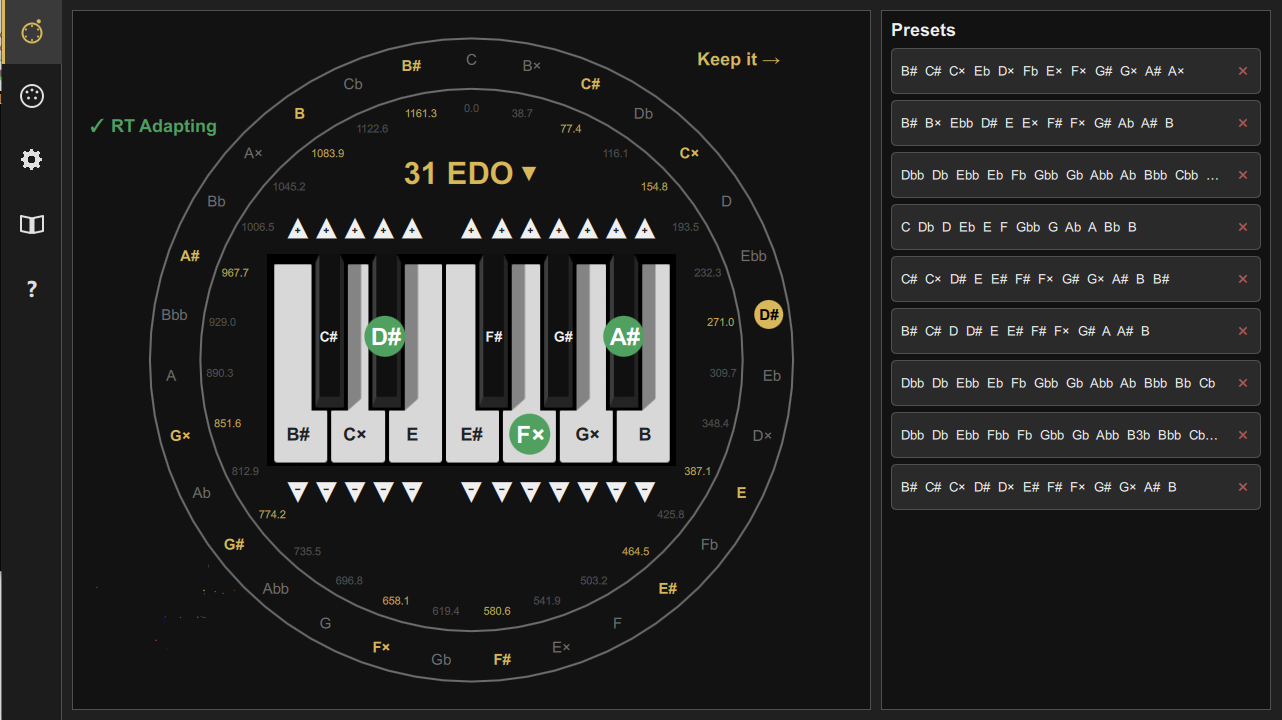
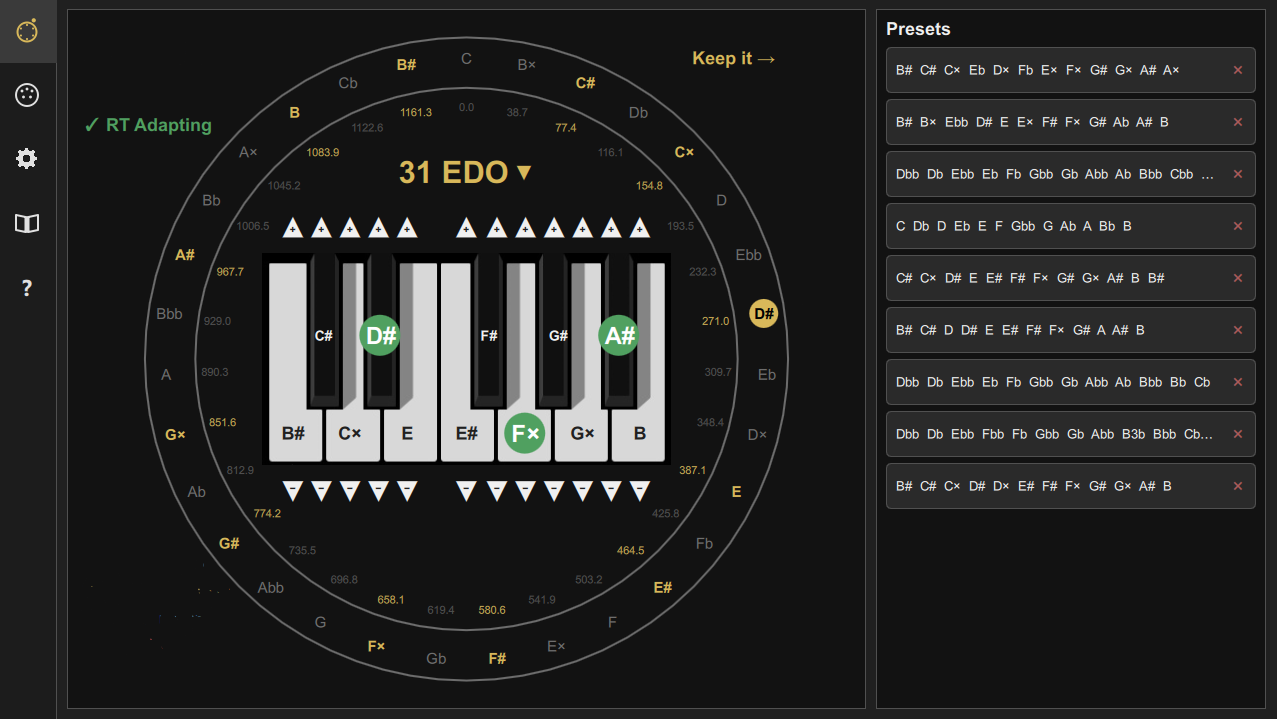
User manual updated with Settings page

diff --git a/src/resources/manual/IntonaUserManual.html b/src/resources/manual/IntonaUserManual.html
@@ -165,8 +165,6 @@
   <main class="page">
     <h1>Intona User Manual</h1>
 
-    <p><strong>Draft version.</strong> This document is a first working draft and will be revised as the behaviour of Intona is documented in more detail.</p>
-
 	<section id="introduction">
 	  <h1>Introduction</h1>
 
@@ -197,6 +195,7 @@
 		<li><a href="#midi-settings">MIDI Setup</a></li>
 		<li><a href="#tuning-fundamentals">Tuning Fundamentals</a></li>
 		<li><a href="#tuning-surface">Tuning Surface</a></li>
+		<li><a href="#settings">Settings</a></li>
 	  </ol>
 	</nav>
 
@@ -634,9 +633,7 @@
 
       <h3>Tuning centre</h3>
 
-      <p>The lower-left area shows the current tuning centre, for example:</p>
-
-      <p><strong>Tuning Center = C</strong></p>
+      <p>The current tuning centre is shown on the circle as a black note name inside a gold disc.</p>
 
       <p>The tuning centre is the reference point used by the current tuning interpretation.</p>
 
@@ -647,46 +644,65 @@
       <p>The <strong>RT Adapting</strong> indicator shows whether real-time adaptive tuning is active.</p>
       <p>Real-time adapting uses scales and major/minor triads, and evaluates incoming notes immediately. It uses the new note, all distinct held note classes, and, if needed, the most recently released distinct notes to form a context of at least three classes. Repetitions and octave doublings do not add independent evidence. The keyboard keeps its fifth-cycle anchor: moving the centre by one fifth preserves the eleven common assignments.</p>
       <p>The five scale families are major, harmonic major, natural minor, melodic minor and harmonic minor. The established centre can explain the context through its own five scales and those of its dominant and subdominant. An alternative centre uses only its own five scales. During a provisional transition, the candidate uses five scales and the previous established centre retains fifteen for recovery. Candidates are visited by alternating ascending and descending fifths, taking the first compatible interpretation while preserving established pivots.</p>
-      <h3>Held notes and instrument test</h3>
-      <p>In Settings, <strong>Retrigger held notes</strong> controls how adaptive tuning and MIDI-control step actions update notes that are already sounding. It is enabled initially and saved automatically. When enabled, Intona sends Note Off, tuning and Note On for affected notes. When disabled, it sends only tuning: the instrument may update held notes itself, or apply the new pitch at the next attack. The interpretation rules and pivot protection stay the same.</p>
-      <p><strong>Test held-note tuning</strong> plays a two-second note on the selected MIDI output channels and changes its tuning noticeably halfway through, without restarting it. Release all keys and the sustain pedal first, and use a sustained sound such as an organ. The original tuning is restored at the end. Answer the question according to what you hear; the suggestion does not change your preference automatically. If you hear no note, check the output connection and channels.</p>
-      <p>You can stop the test at any time. Playing or changing the tuning or MIDI output interrupts it and restores the previous tuning where the connection is available. Test notes are not recorded as performance input.</p>
       <p>When the context contains the keyboard shape of a major or minor triad, its spelling must make it an actual major or minor triad: F–Ab–C instead of F–G#–C, and D–F#–A instead of D–Gb–A. All detected triads must agree with the scale interpretation. If those requirements conflict, the correction yields to the scale logic. No harmonic-distance cost, time-weighted history or history parameters are used. The triad check is part of scale interpretation; no general chord recognizer is used.</p>
       <p>Readings compatible with the established centre are acquired. Fresh acquired held readings remain revisable within 70 ms as a triad completes; older acquired held notes act as fixed pivots. Alternative readings remain provisional and can be revised by subsequent distinct notes. Musical confirmation requires the reading to be supported again with two distinct later classes, after the 70 ms grace period.</p>
       <p>A separate 70 ms timer checks the evidence behind each centre change. A short note or a held confirmation released before the deadline may invalidate it; if existing replacement evidence is insufficient, Intona restores the previous tuning. Later changes depending on that decision are cancelled. This timer never delays the incoming sound, and it does not by itself acquire a provisional musical reading. Note releases update the evidence but do not search for a new centre.</p>
-      <p>If a still-held note needs correction, Intona sends Note Off, the tuning update, then Note On at the original velocity on the selected output channels. Released notes are never restarted. Retrospective interpretation cannot change a note that has already finished sounding. Choosing a centre manually, loading a preset, changing EDO or toggling RT Adapting resets the adaptive context and cancels outstanding verification. Held notes seed the explicit new context as pivots.</p>
-      <p>The performance recorder remains available in Settings. It records original incoming MIDI events before adaptive processing, and identifies the adaptive algorithm in the contextual metadata. Record a problematic passage, stop after releasing the keys, and use the saved file for reproducible timing and interpretation analysis.</p>
+      <p>If a still-held note needs correction, the <a href="#settings">Retrigger held notes setting</a> determines whether Intona restarts it around the tuning update. Released notes are never restarted. Retrospective interpretation cannot change a note that has already finished sounding. Choosing a centre manually, loading a preset, changing EDO or toggling RT Adapting resets the adaptive context and cancels outstanding verification. Held notes seed the explicit new context as pivots.</p>
+
 
       <p>When real-time adapting is enabled, <strong>Intona</strong> can change the tuning interpretation according to the musical context.</p>
 
       <p>When it is disabled, the current tuning layout remains fixed until the user changes it manually.</p>
 
       <h3>Keyboard and pedal control</h3>
-      <p>In Settings, select the MIDI control and its action: tuning step up/down, or next/previous preset. Available controls include channel aftertouch, polyphonic aftertouch, pitch bend up/down and CC 0–119, including modulation, expression, foot controller and sustain/sostenuto/soft pedals. Choose the CC transmitted by your keyboard or pedal; Intona cannot determine the physical pedal from the MIDI message alone. The assignment, activation and threshold are saved automatically.</p>
-      <p>Each gesture performs one action when its value reaches the activation threshold. Return to half that threshold or lower to rearm it. Pitch bend uses distance from the centre in the selected direction. Continuous pressure or pedal movement above the threshold does not repeat the action.</p>
-      <p>Polyphonic aftertouch steps only the addressed held key. Other controls step every held key once, even with octave doublings. Intona uses one tuning per pitch class, so all octaves share the change. Preset actions affect the whole tuning and cycle through the current EDO's saved presets; with no preset selected, next starts at the first and previous at the last.</p>
-      <p>On the tuning surface, click the check mark to enable or disable the assignment. Click its text to reverse the direction: step up/down or next/previous preset. Reversing direction does not enable a disabled assignment.</p>
-      <p>When enabled, the assigned control is reserved for Intona and is not forwarded to the instrument. When disabled, that control passes through normally. The fine-resolution companion of an assigned coarse CC is reserved too. MIDI channel-mode messages are not assignable. This is MIDI 1.0 polyphonic key pressure on the selected input channel, not MPE.</p>
+      <p>Click the check mark or cross to enable or disable the assigned control. Click the adjacent text to reverse its direction: step up/down or next/previous preset. Reversing the direction does not enable a disabled control; when disabled, its action is shown as <strong>off</strong>. Choose the control and action in <a href="#settings">Settings</a>.</p>
 
       <h3>Keep it</h3>
+      <p>Click <strong>Keep it</strong> to save the current tuning configuration as a preset for the selected EDO. You can recall it later from the Presets panel.</p>
 
-      <p>The <strong>Keep it</strong> control is used to keep the current tuning choice.</p>
-
-      <p>This is useful when <strong>Intona</strong> proposes or reaches a tuning interpretation that the user wants to preserve while continuing to play.</p>
-
-      <h3>Adaptive choices panel</h3>
-
-      <p>The panel on the right lists available note collections or harmonic interpretations related to the current tuning context.</p>
-
-      <p>Each row represents a possible tuning choice.</p>
-
-      <p>The highlighted notes indicate the pitch classes involved in that choice.</p>
-
-      <p>The small remove button on the right of each row can be used to discard a listed choice when it is no longer needed.</p>
-
-      <p>This panel is especially useful when working with adaptive tuning, because it shows the available alternatives in a compact form.</p>
+      <h3>Presets</h3>
+      <p>The <strong>Presets</strong> panel on the right contains your saved tuning configurations for the current EDO. Click a row to recall that configuration; use its remove button to delete it.</p>
+      <p>Presets provide an alternative to automatic adaptation. They let you prepare and recall tunings that the adaptive logic, based on scales and major/minor triads, would not select. Disable <strong>RT Adapting</strong> when you want to use these configurations without automatic changes. You can also assign a keyboard or pedal control to move to the next or previous preset in <a href="#settings">Settings</a>.</p>
+      <p>The current selection of twelve pitches is shown by the gold highlights on the tuning circle and by the note names on the keyboard. The Presets panel stores configurations chosen by you; it does not list suggested interpretations of the music you are playing.</p>
 
 	</section>
+
+    <section id="settings">
+      <h1>5. Settings</h1>
+
+	  <figure>
+		  <img class="manual-screenshot"
+			   src="images/Settings.png"
+			   alt="Settings page"
+			   style="width:80%;">
+		  <figcaption>
+			  Settings page.
+		  </figcaption>
+	  </figure>
+
+      <p>Use this page to assign a keyboard or pedal control, choose how held notes respond to tuning changes, and select the note naming convention. These preferences are saved automatically for the next session.</p>
+
+      <h3>Keyboard and pedal control</h3>
+      <p>Select the MIDI control and its action: tuning step up/down, or next/previous preset. Available controls include channel aftertouch, polyphonic aftertouch, pitch bend up/down and CC 0–119, including modulation, expression, foot controller and sustain/sostenuto/soft pedals. Choose the CC transmitted by your keyboard or pedal; Intona cannot determine the physical pedal from the MIDI message alone. The assignment, activation and threshold are saved automatically.</p>
+      <p>Each gesture performs one action when its value reaches the activation threshold. Return to half that threshold or lower to rearm it. Pitch bend uses distance from the centre in the selected direction. Continuous pressure or pedal movement above the threshold does not repeat the action.</p>
+      <p>Polyphonic aftertouch steps only the addressed held key. Other controls step every held key once, even with octave doublings. Intona uses one tuning per pitch class, so all octaves share the change. Preset actions affect the whole tuning and cycle through the current EDO's saved presets; with no preset selected, next starts at the first and previous at the last.</p>
+      <p>When enabled, the assigned control is reserved for Intona and is not forwarded to the instrument. When disabled, that control passes through normally. The fine-resolution companion of an assigned coarse CC is reserved too. MIDI channel-mode messages are not assignable. This is MIDI 1.0 polyphonic key pressure on the selected input channel, not MPE.</p>
+
+      <h3>Held notes and instrument test</h3>
+      <p><strong>Retrigger held notes</strong> controls how adaptive tuning and MIDI-control step actions update notes that are already sounding. It is enabled initially and saved automatically. When enabled, Intona sends Note Off, tuning and Note On for affected notes. When disabled, it sends only tuning: the instrument may update held notes itself, or apply the new pitch at the next attack. The interpretation rules and pivot protection stay the same.</p>
+      <p><strong>Test held-note tuning</strong> plays a two-second note on the selected MIDI output channels and changes its tuning by about 80 cents (almost a semitone), upwards or downwards, halfway through, without restarting it. This is a clear change of note, not a subtle nuance. Release all keys and the sustain pedal first, and use a sustained sound such as an organ. The original tuning is restored at the end. Choose “Yes, I heard the note change” or “No, I heard only one note”; the suggestion does not change your preference automatically. If you hear no sound, check the output connection and channels, then repeat the test.</p>
+      <p>You can stop the test at any time. Playing or changing the tuning or MIDI output interrupts it and restores the previous tuning where the connection is available. Test notes are not recorded as performance input.</p>
+
+      <p>If you heard the note change, the instrument can update sounding notes and you can disable <strong>Retrigger held notes</strong>. If you heard only one unchanged note, enable it so that Intona restarts notes that need retuning.</p>
+
+      <h3>Note names</h3>
+      <p>This setting changes the names shown in Intona; it does not change the tuning or keyboard mapping.</p>
+      <ul>
+        <li><strong>Cycle of fifths</strong>: names follow the cycle of fifths using sharps and flats. Some EDOs and tuning centres require three or more accidentals.</li>
+        <li><strong>Simplified names and +/-</strong>: tuning-centre names use at most two sharps or flats where possible, with + or - signs indicating steps above or below the nearest such name. Each sign represents one step of the selected EDO. Exact names with at most two accidentals remain unchanged. The twelve selected notes retain the correct interval spelling relative to the centre, even when this requires more than two accidentals.</li>
+      </ul>
+
+    </section>
 
   </main>
 </body>

diff --git a/src/qml/pages/SettingsPage.qml b/src/qml/pages/SettingsPage.qml
@@ -151,17 +151,20 @@ Rectangle {
                         spacing: 8
                         visible: TuningController.retuningTestAwaitingAnswer
                         Button {
-                            text: qsTr("Yes, the pitch changed")
+                            text: qsTr("Yes, I heard the note change")
                             onClicked: testAnswer.text = qsTr("You can disable retriggering.")
                         }
                         Button {
-                            text: qsTr("No, it stayed the same")
+                            text: qsTr("No, I heard only one note")
                             onClicked: testAnswer.text = qsTr("Enable retriggering to update held notes.")
                         }
-                        Button {
-                            text: qsTr("I could not tell")
-                            onClicked: testAnswer.text = qsTr("Try a sustained sound and check the MIDI output.")
-                        }
+                    }
+                    Label {
+                        Layout.fillWidth: true
+                        wrapMode: Text.WordWrap
+                        color: SharedUi.Theme.secondaryText
+                        visible: TuningController.retuningTestAwaitingAnswer
+                        text: qsTr("No sound? Check the MIDI output, then repeat the test.")
                     }
                     Label {
                         id: testAnswer
@@ -174,6 +177,8 @@ Rectangle {
             }
 
             SharedUi.FormSection {
+                objectName: "recordingPanel"
+                visible: RecordingUiEnabled
                 title: qsTr("Record a performance")
                 Layout.fillWidth: true
 

diff --git a/tests/SettingsPageTests.cpp b/tests/SettingsPageTests.cpp
@@ -41,6 +41,7 @@ int main(int argc, char** argv)
   QQuickStyle::setStyle("Material");
   QQuickWindow::setGraphicsApi(QSGRendererInterface::Software);
   QQmlEngine engine;
+  engine.rootContext()->setContextProperty("RecordingUiEnabled", false);
   QTemporaryDir recordingDirectory;
   MidiEventRecorder recorder(nullptr, recordingDirectory.path());
   engine.rootContext()->setContextProperty("PerformanceRecorder", &recorder);
@@ -100,6 +101,11 @@ ApplicationWindow {
   QMetaObject::invokeMethod(retrigger, "toggled");
   if (settings.value("retriggerHeldNotes").toBool()) return 31;
   auto* threshold = root->findChild<QObject*>("dirtyNoteThresholdSelector");
+  auto* recordingPanel = root->findChild<QObject*>("recordingPanel");
+  if (!recordingPanel || recordingPanel->property("visible").toBool()) return 50;
+  engine.rootContext()->setContextProperty("RecordingUiEnabled", true);
+  settle();
+  if (!recordingPanel->property("visible").toBool()) return 51;
   auto* recordButton = root->findChild<QObject*>("recordingToggle");
   auto* recordLabel = root->findChild<QObject*>("recordingLabel");
   if (!recordButton || !recordLabel) return 25;
@@ -110,6 +116,9 @@ ApplicationWindow {
   recorder.recordInput(0x80,60,0,1125,1);
   QMetaObject::invokeMethod(recordButton, "clicked");
   if (recorder.recording() || !QFile::exists(recorder.filePath())) return 27;
+  engine.rootContext()->setContextProperty("RecordingUiEnabled", false);
+  settle();
+  if (recordingPanel->property("visible").toBool()) return 52;
   auto* adapting = root->findChild<QObject*>("scaleTriadAdaptingSelector");
   if (adapting || threshold || root->findChild<QObject*>("historyDecaySlopeSelector")
     || root->findChild<QObject*>("historyWindowIntervalsSelector")) return 16;
@@ -143,7 +152,7 @@ ApplicationWindow {
   settle();
   if(!screenshotDir.isEmpty() && !window->grabWindow().save(screenshotDir+"/settings-portrait.png"))return 24;
   settings.insert("retuningTestAwaitingAnswer", true);
-  settings.insert("retuningTestMessage", "Did you hear the pitch change while the note was sounding?");
+  settings.insert("retuningTestMessage", "Did you hear the note change by almost a semitone (80 cents) halfway through?");
   settle();
   if (!root->findChild<QObject*>("retuningTestStatus")->property("visible").toBool()) return 32;
   if (!screenshotDir.isEmpty()

diff --git a/src/tuning/TuningController.cpp b/src/tuning/TuningController.cpp
@@ -907,7 +907,7 @@ void TuningController::startRetuningTest()
   }
   else
   {
-    retuningTestMessage_ = tr("Listen: the pitch should change halfway through the two-second note.");
+    retuningTestMessage_ = tr("Listen for a clear change of almost a semitone halfway through the two-second note.");
     retuningTestTimer_->start(1000);
   }
   emit tuningStateChanged();
@@ -950,7 +950,7 @@ void TuningController::finishRetuningTest(bool completed)
     completed = sendTuningTable(*out, retuningTestChannels_, retuningTestTable_) && completed;
   }
   retuningTestAwaitingAnswer_ = completed;
-  retuningTestMessage_ = completed ? tr("Did you hear the pitch change while the note was sounding?")
+  retuningTestMessage_ = completed ? tr("Did you hear the note change by almost a semitone (80 cents) halfway through?")
     : tr("Test interrupted. The previous tuning has been restored where the MIDI connection is available.");
   scheduleScaleVerification();
   emit tuningStateChanged();

diff --git a/src/main.cpp b/src/main.cpp
@@ -203,6 +203,11 @@ int main(int argc, char** argv)
 
   engine.rootContext()->setContextProperty("TuningController", &tuningViewModel);
   engine.rootContext()->setContextProperty("PerformanceRecorder", &performanceRecorder);
+#if defined(INTONA_ENABLE_RECORDING_UI) && INTONA_ENABLE_RECORDING_UI
+  engine.rootContext()->setContextProperty("RecordingUiEnabled", true);
+#else
+  engine.rootContext()->setContextProperty("RecordingUiEnabled", false);
+#endif
 
   engine.rootContext()->setContextProperty("DebugBuild", debugBuild);
 

diff --git a/docs/MidiRecording.md b/docs/MidiRecording.md
@@ -28,3 +28,11 @@ Pair notes by channel and MIDI note, preserve event order for equal timestamps, 
 The context also records `retrigger_held_notes`. The Settings instrument test sends output directly and does not create recorded input events.
 
 Assignable-control context includes `control_source`, `control_action`, `control_enabled`, and `control_threshold` (see [MIDI controls](MidiControls.md)). All CCs now reach recording before the action-aware output routing, including CC11 expression previously discarded by the input interpreter.
+
+## Build-time visibility
+
+The Settings recording panel is hidden by default in every build configuration.
+Enable it by configuring CMake with `-DINTONA_ENABLE_RECORDING_UI=ON` and rebuilding.
+CMake defines `INTONA_ENABLE_RECORDING_UI=1` for the application; OFF defines it as
+0. Set the option back to OFF and rebuild to hide the panel again. This only
+controls the diagnostic UI; the recorder remains available for automated tests.
